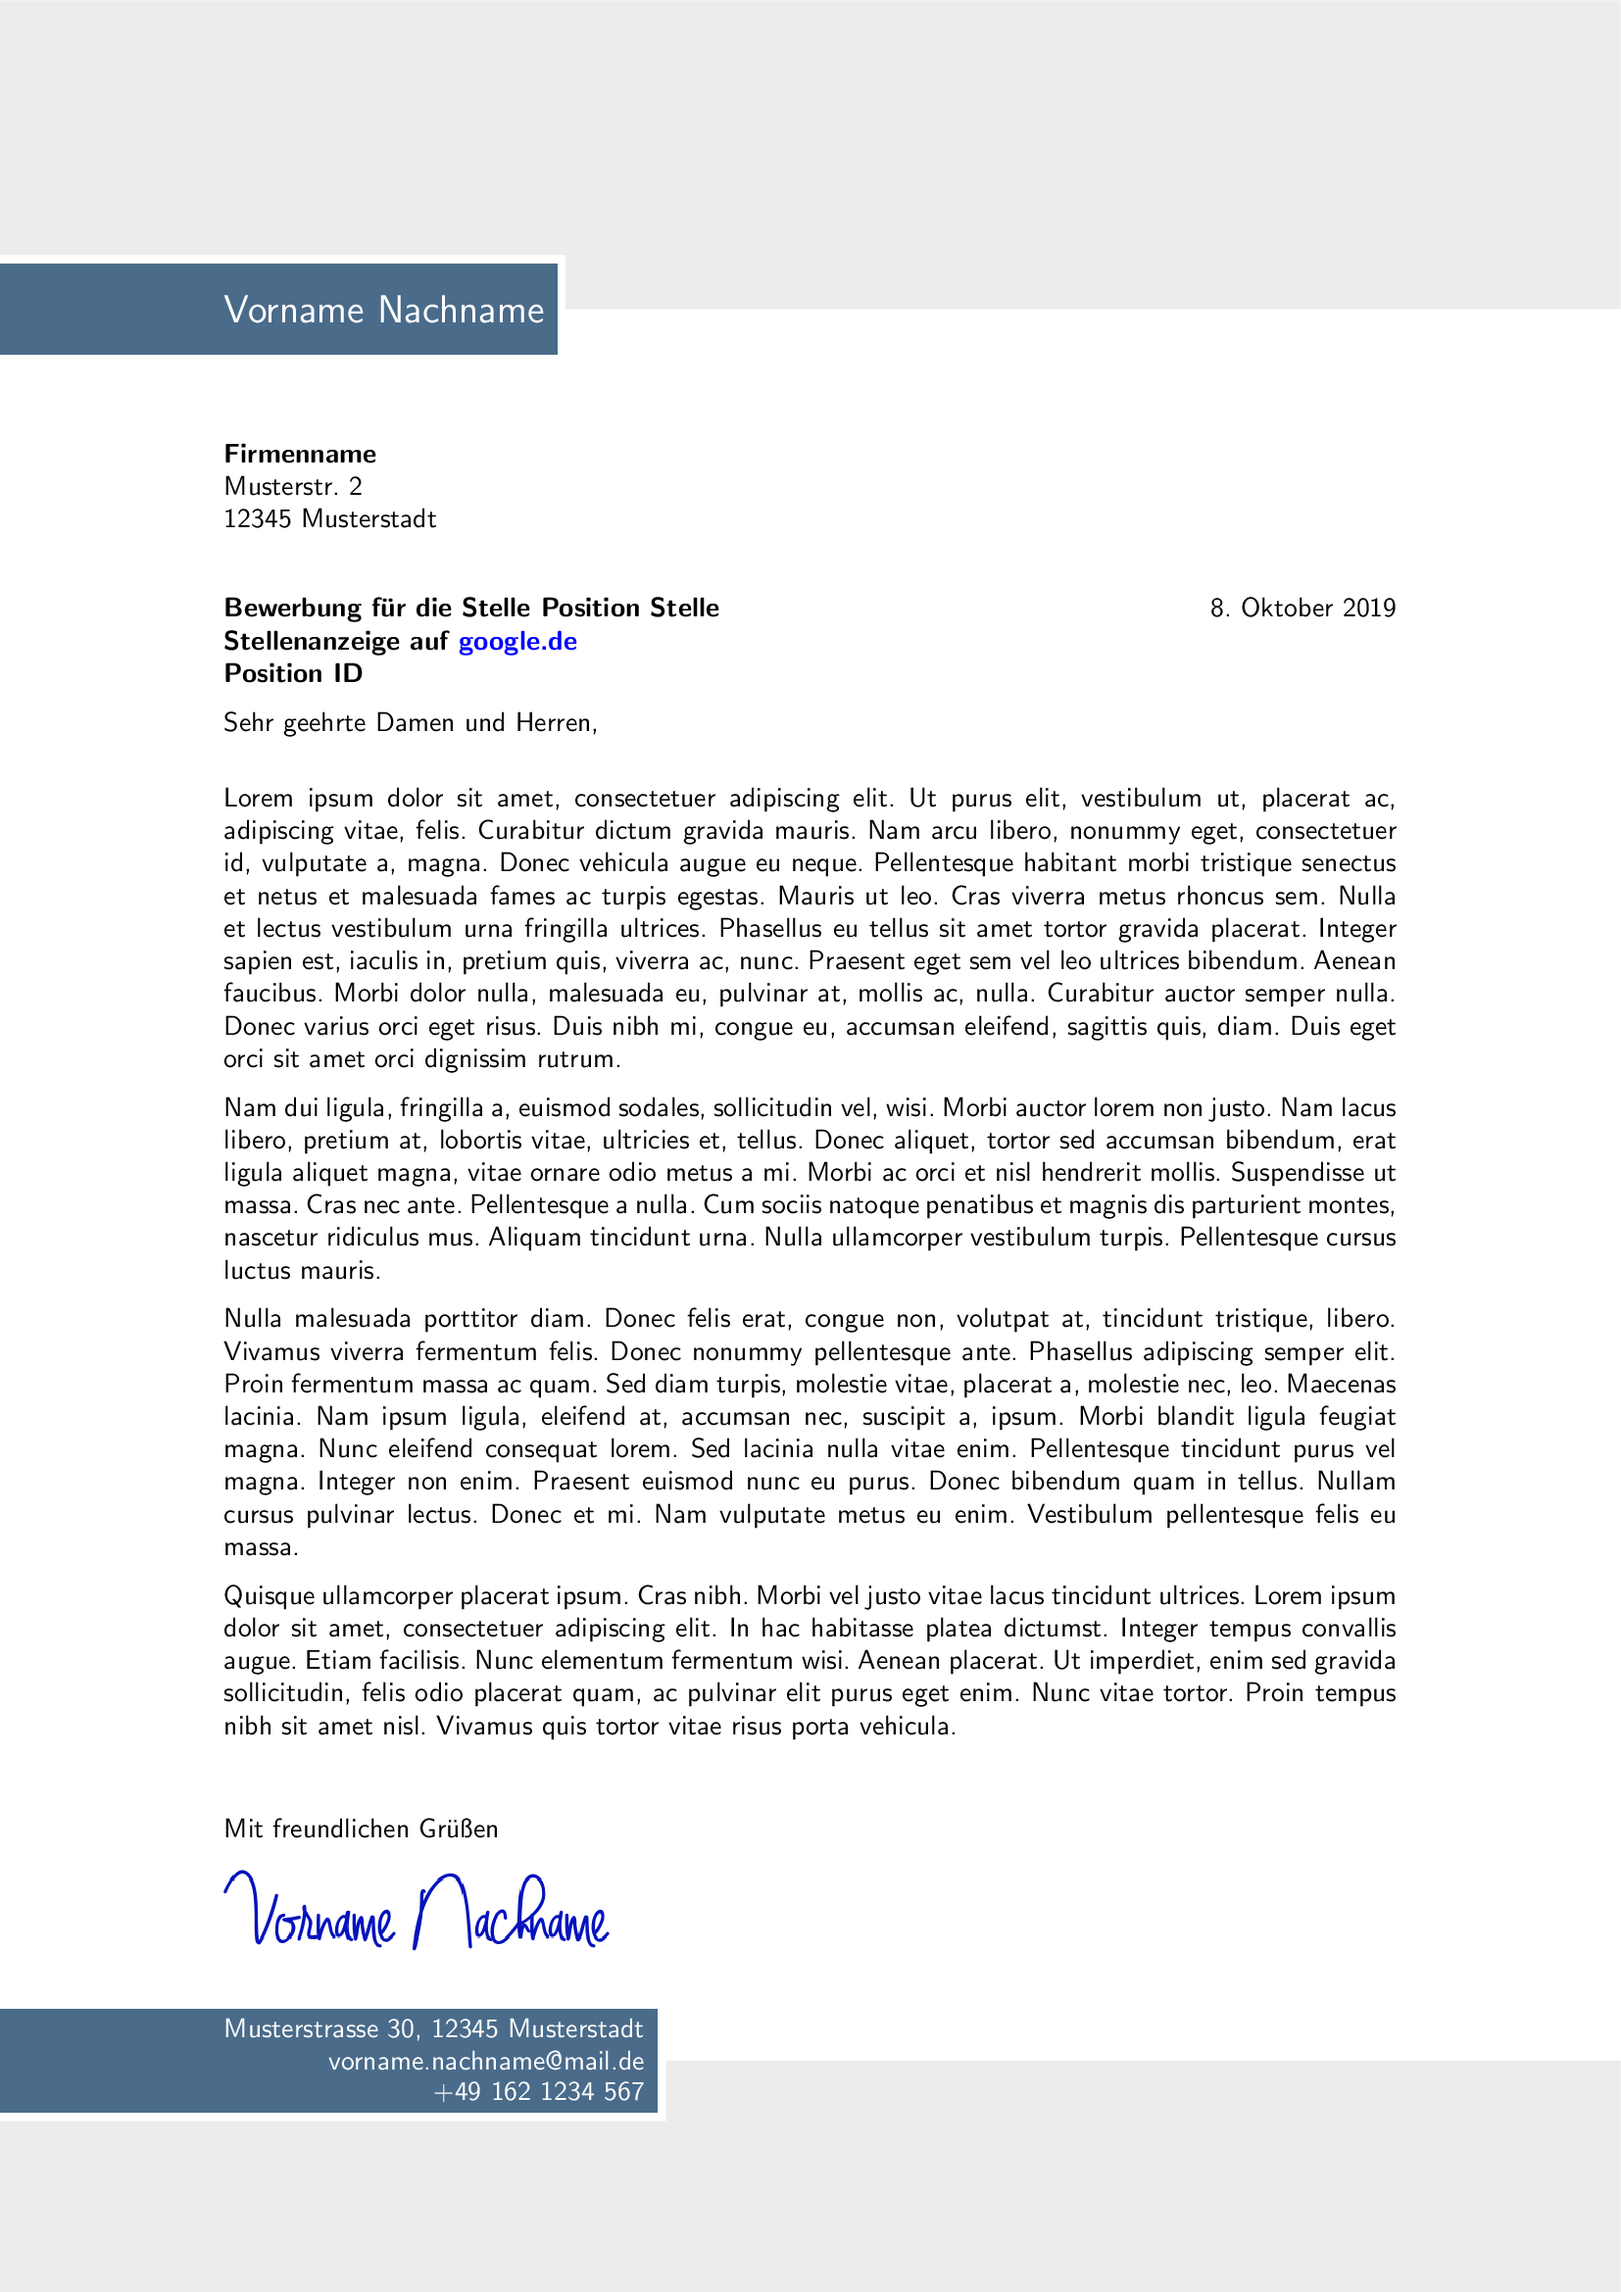
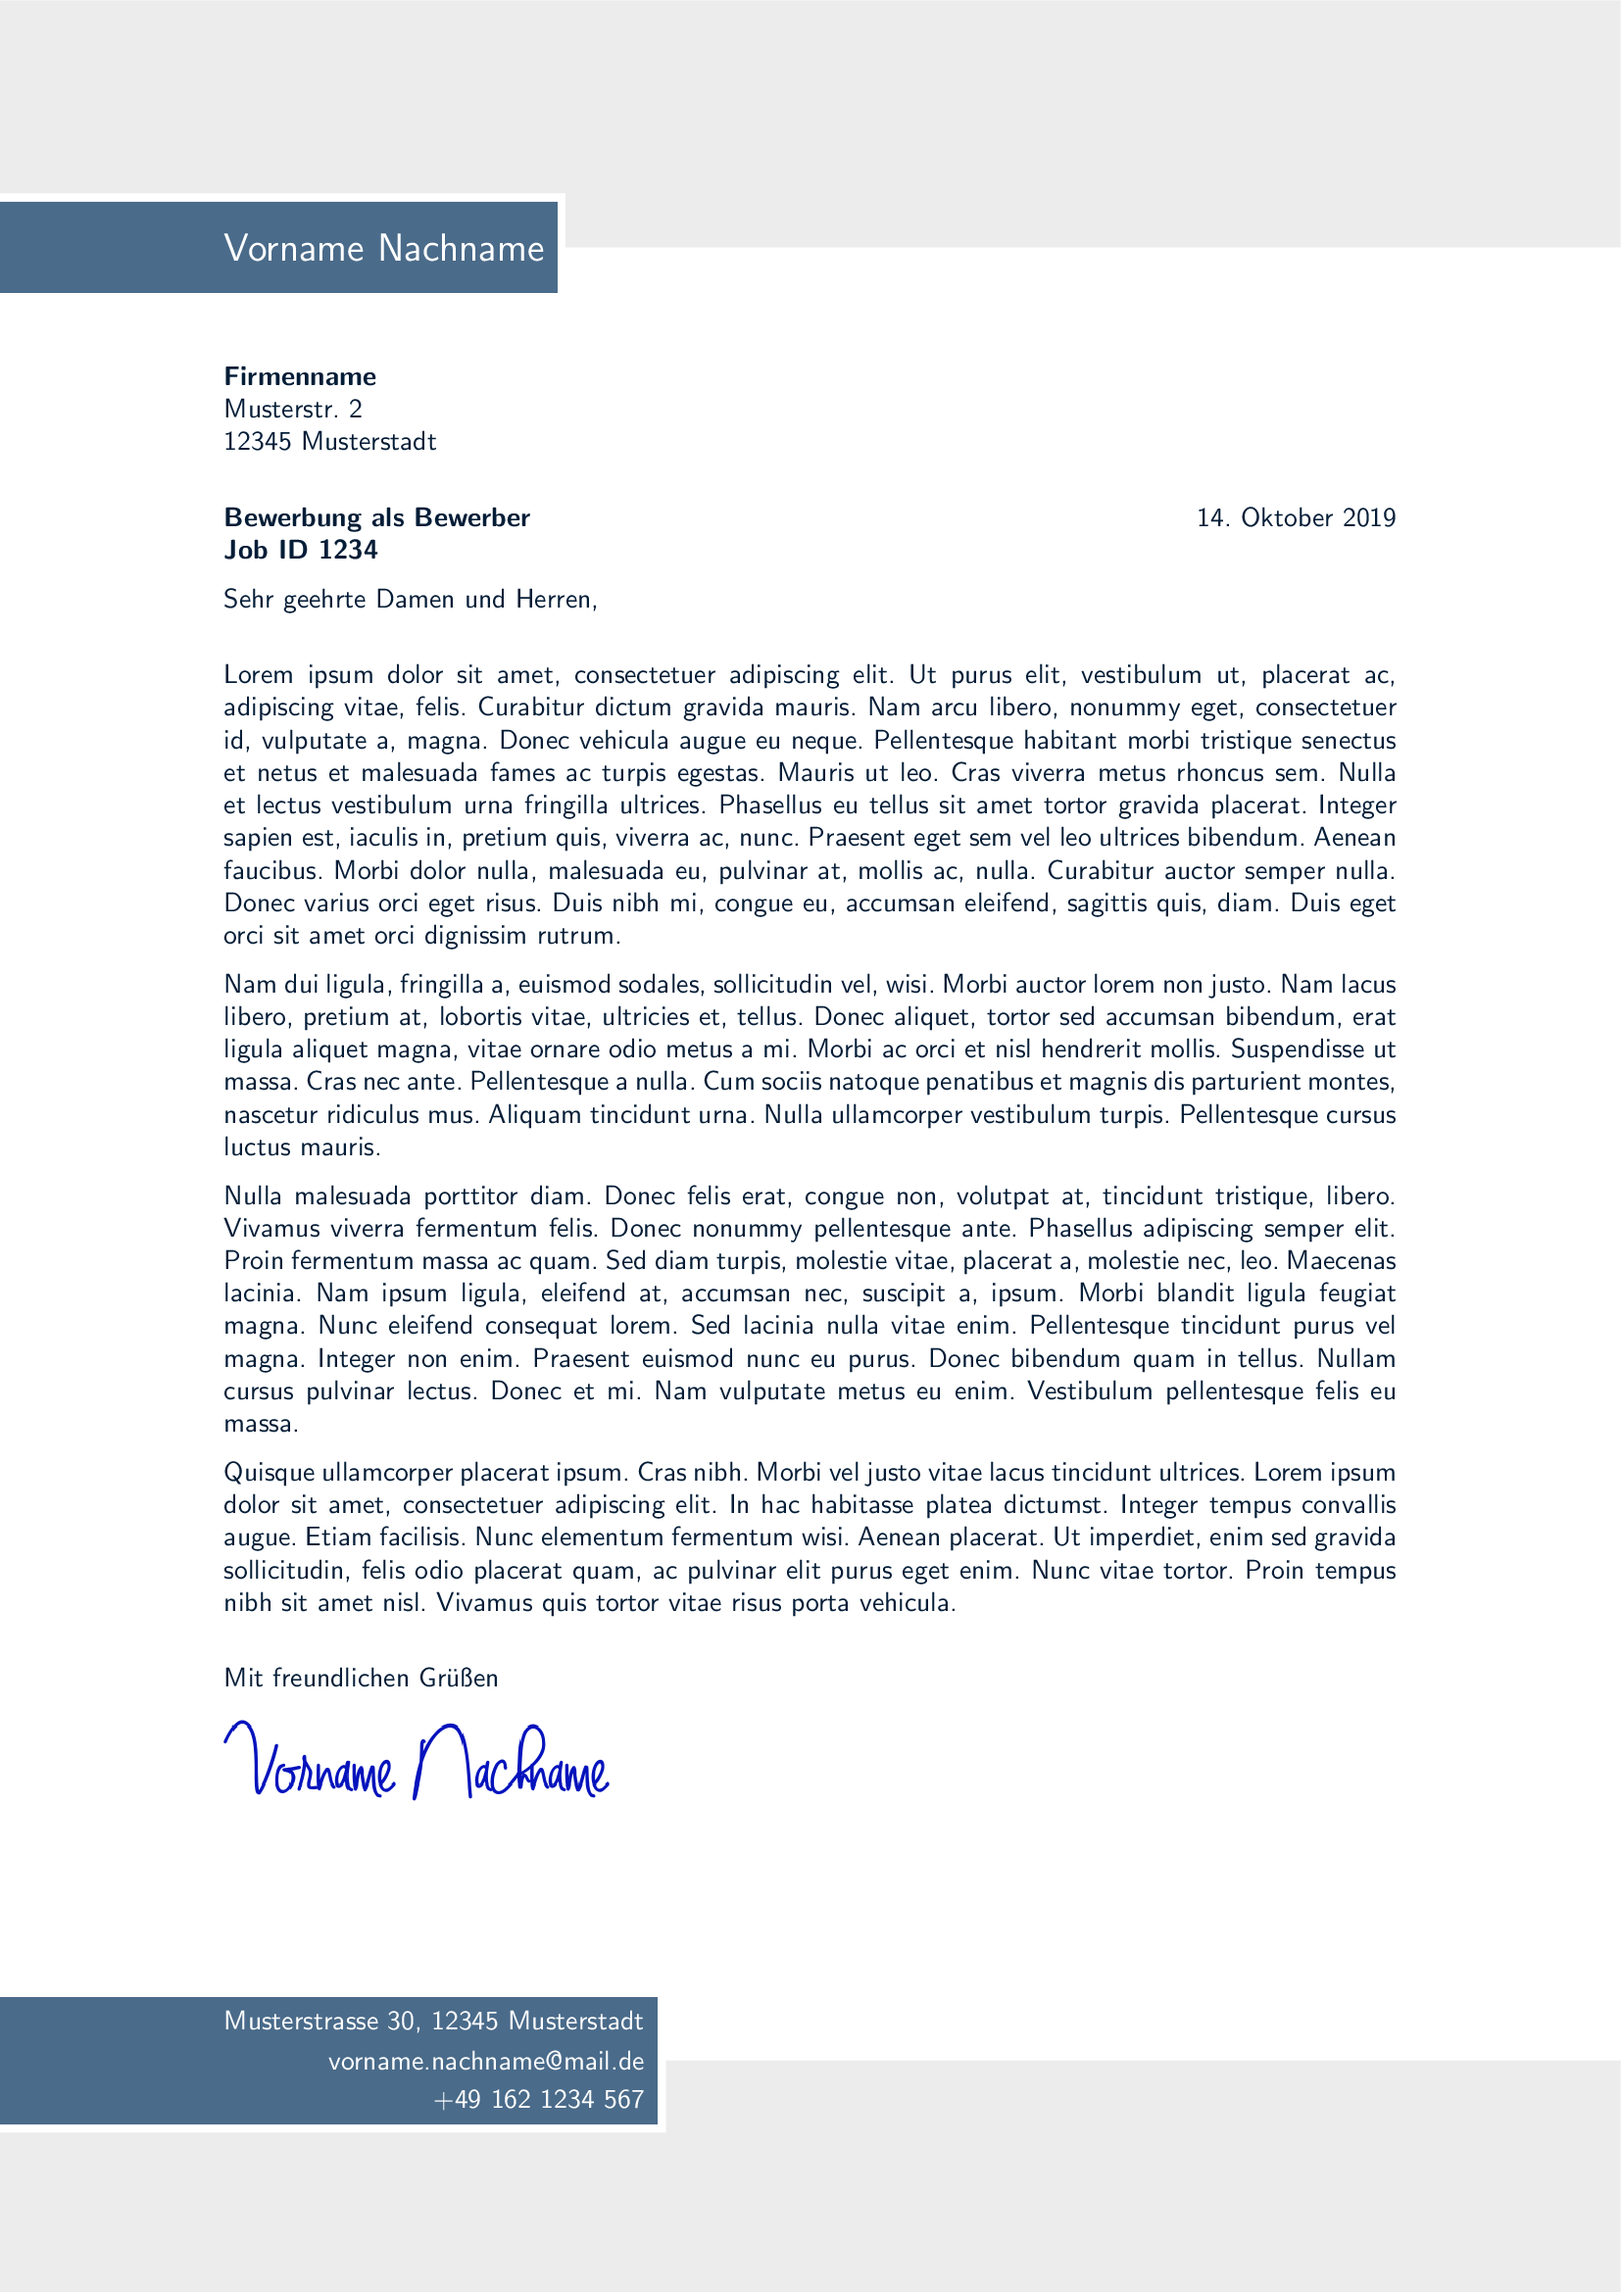
edit nidzocv.cls and update other files

Changed region(s): [[0.0, 0.0624, 0.8634, 0.9363]]

diff --git a/main.tex b/main.tex
@@ -13,9 +13,8 @@
 \setPicture{media/profilepic.png}
 \setSignaturePicture{media/signatur.png}
 
-\setPosition{Position Stelle}
-\setjobofferlocation{Stellenanzeige auf \href{www.googl.de}{google.de}\\}
-\setPositionId{Position ID}
+\setPosition{Bewerber}
+\setPositionId{Job ID 1234}
 
 \setCompanyName{Firmenname}
 \setCompanyAddress{Musterstr. 2}

diff --git a/coverletter.tex b/coverletter.tex
@@ -1,5 +1,8 @@
 \begin{coverletter}
 
+  \displayCompanyAdress
+  \vspace{10pt}
+  \displaySubject
 
   Sehr geehrte Damen und Herren,
 
@@ -7,7 +10,7 @@
 
   \lipsum[1-4]
 
-  \vspace{20pt}
+  \vspace{10pt}
 
   Mit freundlichen Grüßen
   \displaysignature
